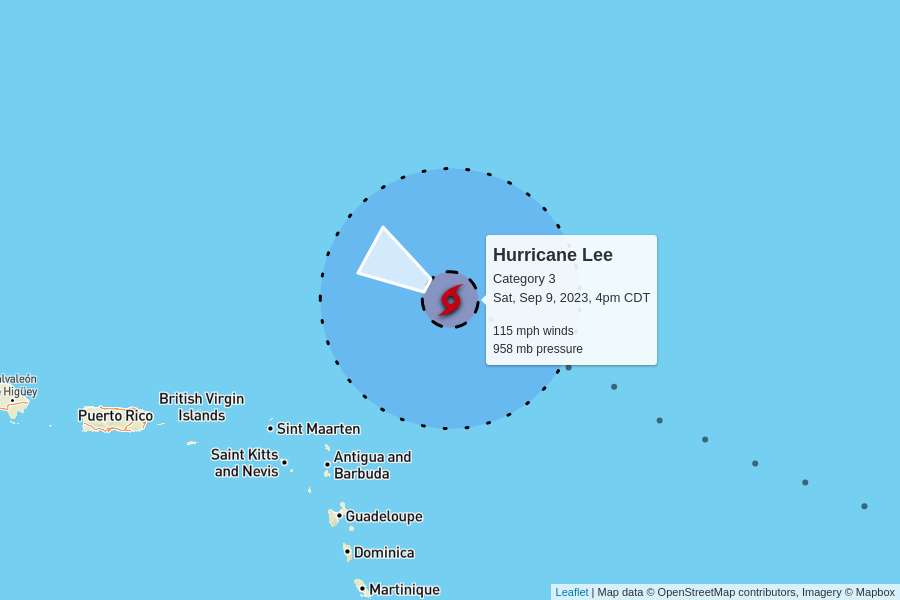
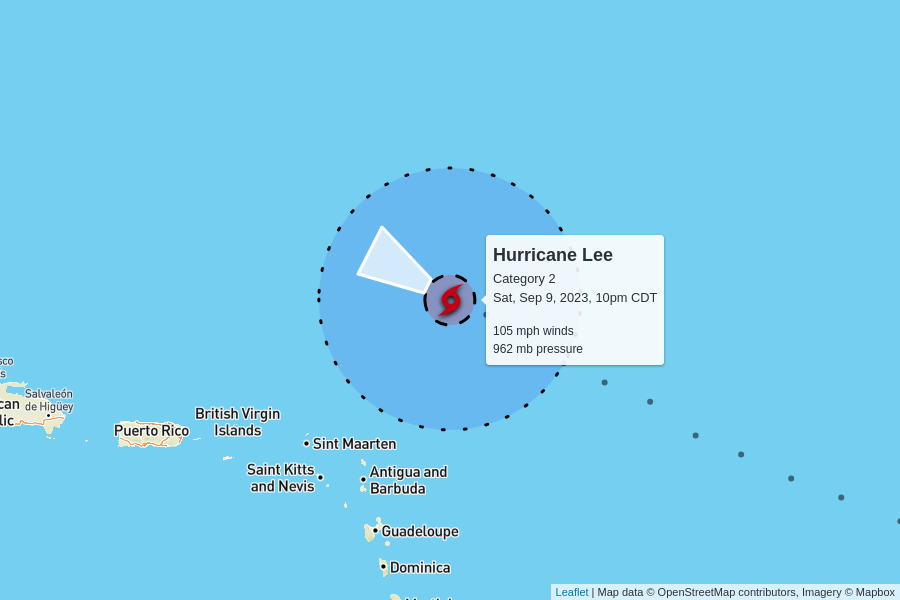
automatic update

diff --git a/docs/index.html b/docs/index.html
@@ -101,10 +101,10 @@
 
     <table>
       <tr>
-        <td colspan="6" class="storm category-3" >
+        <td colspan="6" class="storm category-2" >
           <h2>
-            Hurricane Lee - Category 3
-            <p class="updated">last updated <span data-time>2023-09-09T21:00:00.000Z</span></p>
+            Hurricane Lee - Category 2
+            <p class="updated">last updated <span data-time>2023-09-10T03:00:00.000Z</span></p>
           </h2>
         </td>
       </tr>
@@ -119,10 +119,10 @@
       </tr>
       <tr>
         <td class="spacer"></td>
-        <td>115 mph<br>0 mph since last update</td>
-        <td>958 mb<br>+1 mb since last update</td>
+        <td>105 mph<br>-10 mph since last update</td>
+        <td>962 mb<br>+4 mb since last update</td>
         <td>
-          10 mph to the west-northwest
+          9 mph to the west-northwest
           <br/>
           <span style="display: inline-block; font-size: 1.5em; transform: rotate(300deg);">↑</span>
         </td>
@@ -148,7 +148,7 @@
         <td colspan="6" class="storm category-0" >
           <h2>
             Tropical Storm Margot
-            <p class="updated">last updated <span data-time>2023-09-09T21:00:00.000Z</span></p>
+            <p class="updated">last updated <span data-time>2023-09-10T03:00:00.000Z</span></p>
           </h2>
         </td>
       </tr>
@@ -163,12 +163,12 @@
       </tr>
       <tr>
         <td class="spacer"></td>
-        <td>45 mph<br>0 mph since last update</td>
-        <td>1004 mb<br>0 mb since last update</td>
+        <td>50 mph<br>+5 mph since last update</td>
+        <td>1000 mb<br>-4 mb since last update</td>
         <td>
           9 mph to the northwest
           <br/>
-          <span style="display: inline-block; font-size: 1.5em; transform: rotate(310deg);">↑</span>
+          <span style="display: inline-block; font-size: 1.5em; transform: rotate(315deg);">↑</span>
         </td>
         <td><a href="https://raw.githubusercontent.com/mgwalker/atlantic-hurricanes/main/data/csv/AL142023.csv">AL142023.csv</a></td>
         <td><a href="https://www.nhc.noaa.gov/archive/2023/MARGOT.shtml?">NHC advisories</a></td>
